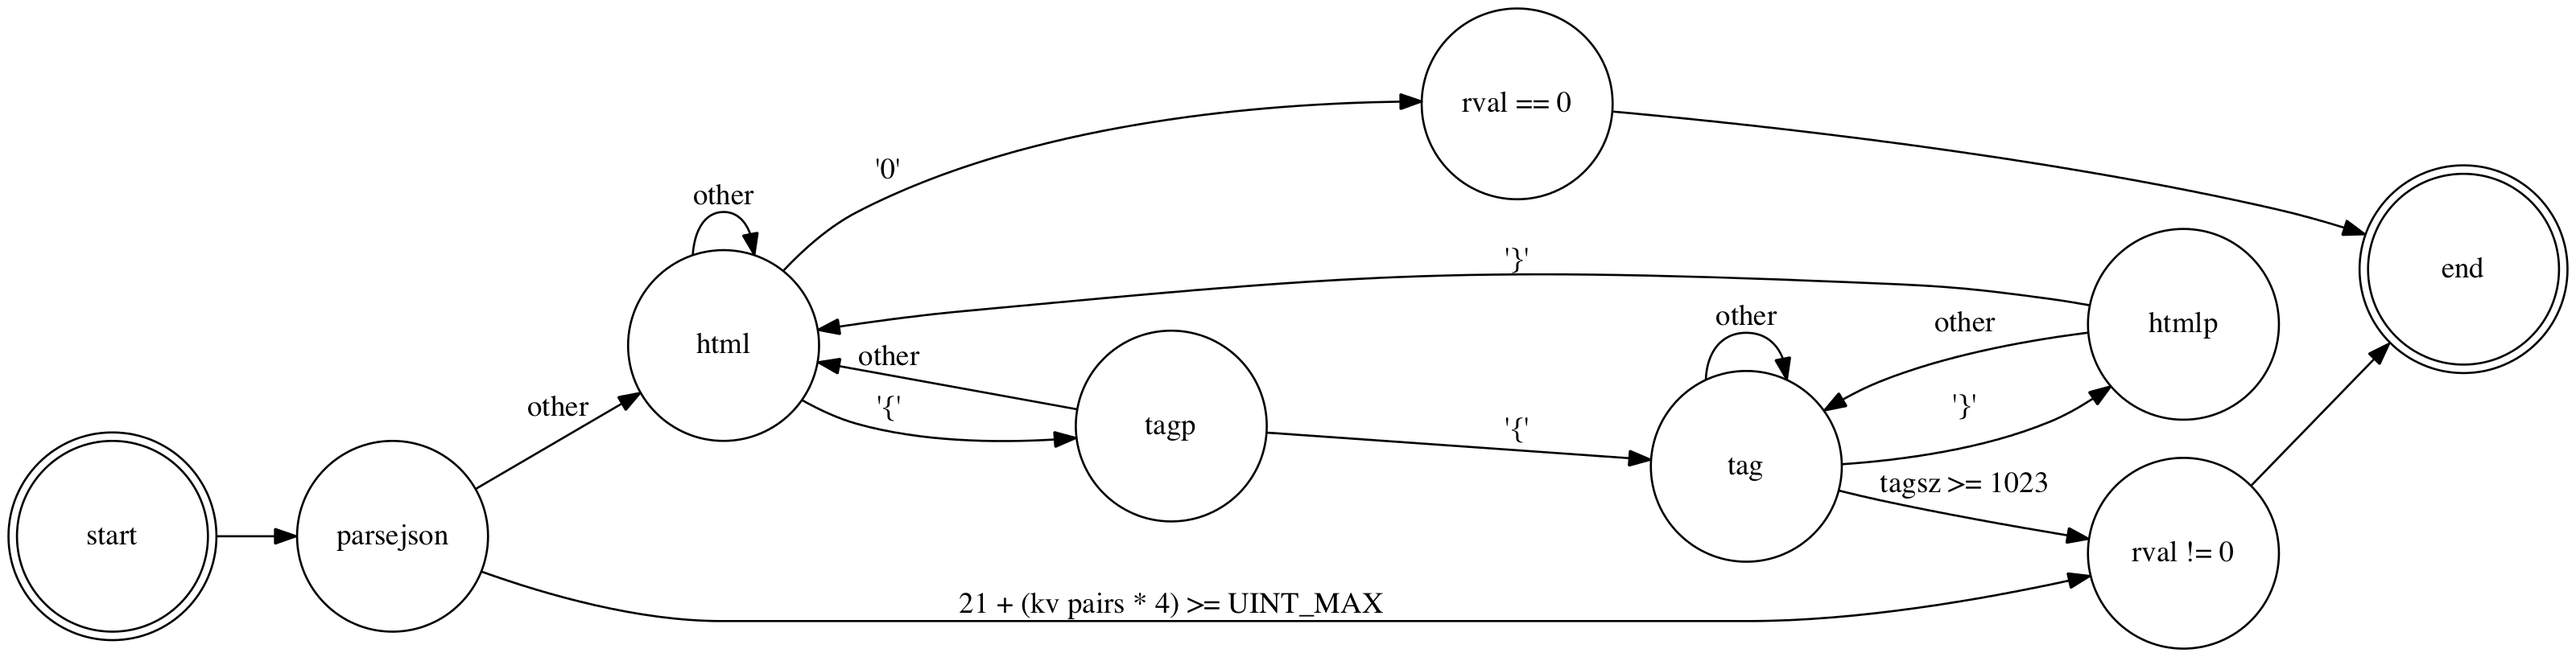
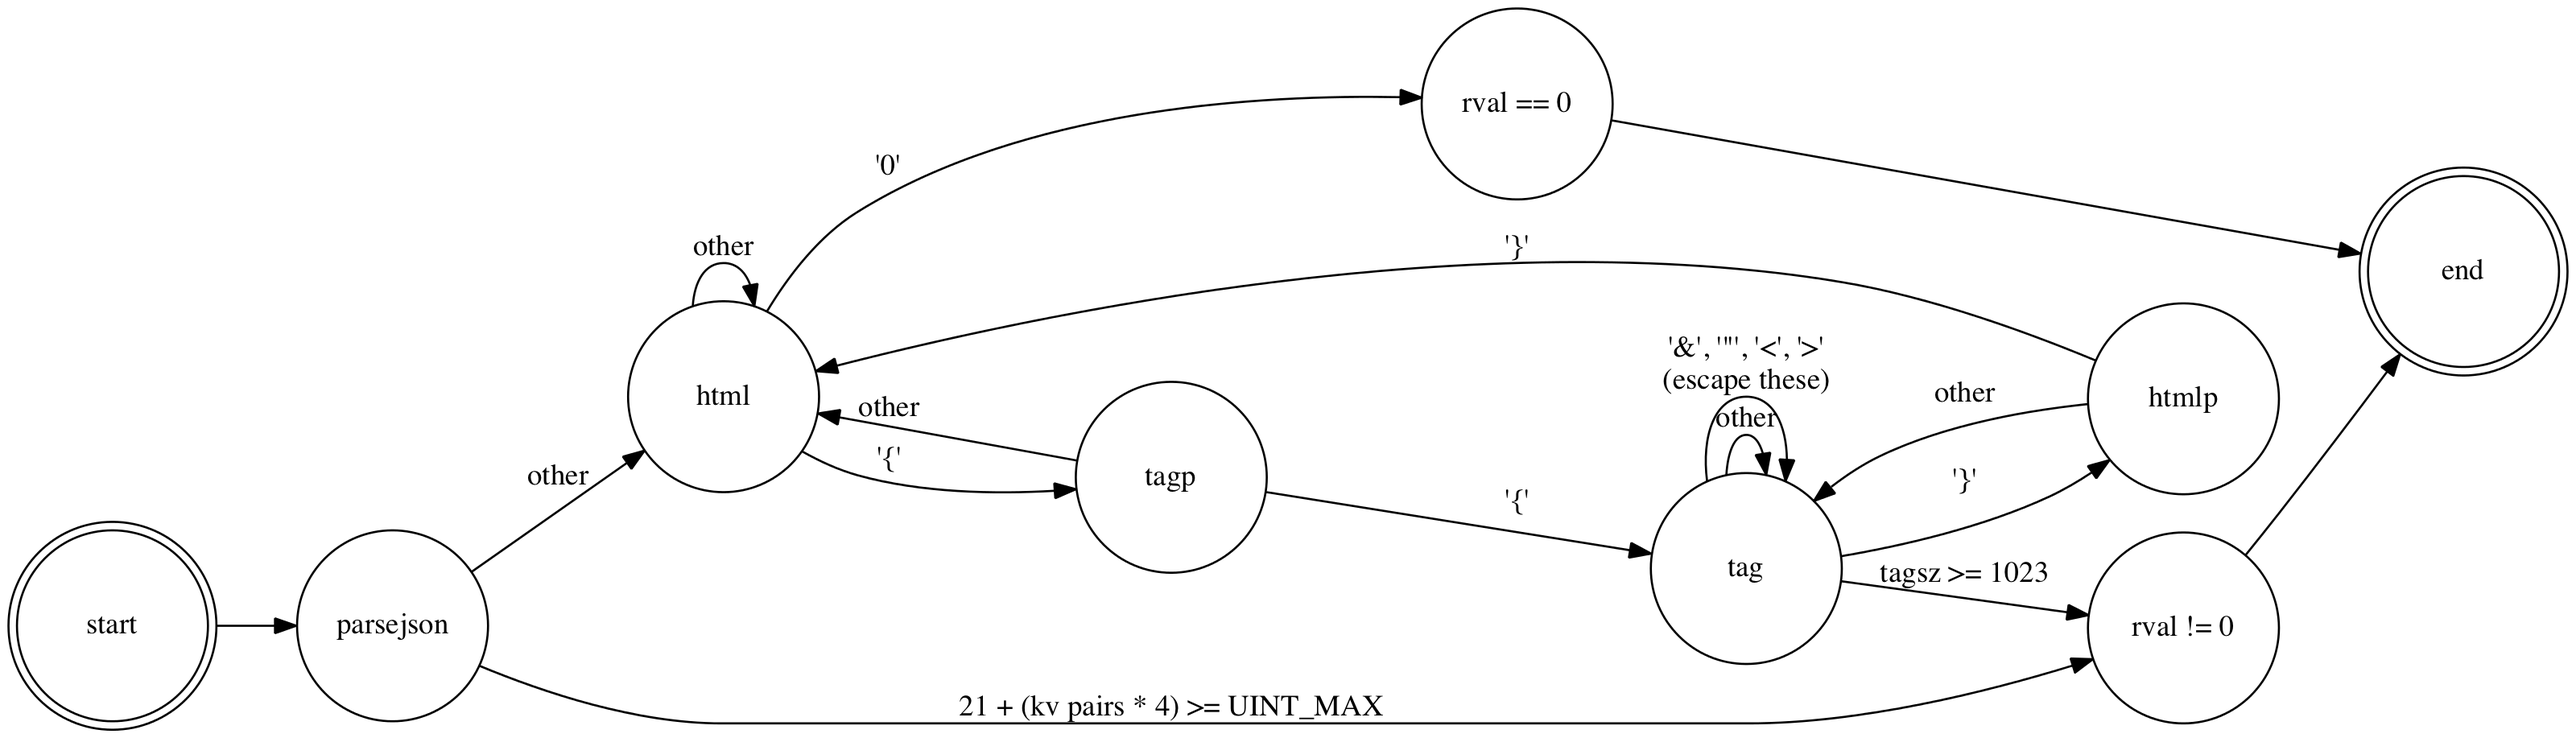
First three interpolation tests pass.

diff --git a/cmustache.c b/cmustache.c
@@ -8,6 +8,7 @@
 
 #include "js0n.h"
 #include "j0g.h"
+#include "htmlescape.h"
 
 #include "cmustache.h"
 
@@ -29,6 +30,17 @@
                                 __LINE__, __func__, __VA_ARGS__); } while (0)
 
 
+// Return the number of times the character c appears in the string s.
+unsigned long
+count(const char *s, char c)
+{
+	unsigned long		n = 0;
+
+	for (; *s; s++, n += (*s == c));
+
+	return n;
+}
+
 // Compute the size of an array
 // that is large enough to hold one offset and one length value
 // for each key and each value in the JSON.
@@ -37,9 +49,8 @@
 int
 size_index(const char *json, unsigned short **indexp, unsigned int *iszp)
 {
-	const char	*p;
 	int		rval = 0;
-	char		c = ',';
+	long		n = 0;
 
 		/*
 		 * (one key + one value) x (one offset + one length) = 4
@@ -60,12 +71,12 @@ size_index(const char *json, unsigned short **indexp, unsigned int *iszp)
 		 * on the number of key/value pairs - 1.
 		 */
 
-	*iszp = 0;
-	for(p = json; *p && !rval; p++) {
-		if (*iszp >= UINT_MAX)
-			rval = EX_TOO_MANY_KEYVAL_PAIRS;
-		*iszp += (*p == c);
-	}
+
+	n = count(json, ',');
+	if (n >= UINT_MAX)
+		rval = EX_TOO_MANY_KEYVAL_PAIRS;
+
+	*iszp = (unsigned int) n;
 
 		/*
 		 * The array holds short ints, but the array index
@@ -144,22 +155,28 @@ get(char *json, unsigned short *index, const char *key, char **val)
 
 // Look up value in JSON for the given key, and insert it into the result.
 int
-insert_tag(char *key, char **qhtml, char *json, unsigned short *index)
+insert_value(char *key, char **qhtml, char *json, unsigned short *index)
 {
 	int 		rval = 0;
-	char		*val;
+	char		*val = 0;
+	char		*escaped = 0;
 
 	rval = get(json, index, key, &val);
 
-	debug_printf("*qhtml = \"%s\"\n", val);
+	if (!rval)
+
+		rval = htmlescape(val, &escaped);
 
 	if (!rval) {
 
-		strcpy(*qhtml, val);
+printf("escaped = '%s'\n", escaped);
+
+		strcpy(*qhtml, escaped);
 
 		*qhtml += strlen(*qhtml);
-
 	}
+
+	free(escaped);
 
 	return rval;
 }
@@ -169,7 +186,6 @@ int
 render(const char *template, char *json, char **html)
 {
 	char		tag[MAX_TAGSZ] = {0};
-	char		*dbgfmt = "\t\t--> %s (%s)";
 	const char	*cur= 0;
 	char		prev;
 	char		*qhtml = 0;
@@ -200,8 +216,8 @@ render(const char *template, char *json, char **html)
 
 	static void *gotag[] =
 	{
-		[0 ... 124]		= &&l_tag,
-		[ '}' ]			= &&l_htmlp,
+		[0 ... 124 ]	= &&l_tag,
+		[ '}' ]			= &&l_htmlp,	// 125
 		[126 ... 255]	= &&l_tag
 	};
 
@@ -266,7 +282,6 @@ render(const char *template, char *json, char **html)
 		goto l_loop;
 
 
-
 	l_tag:
 		if (qtag - tag >= MAX_TAGSZ - 1)
 			rval = EX_TAG_TOO_LONG;
@@ -309,9 +324,9 @@ render(const char *template, char *json, char **html)
 	l_yes_html:
 		go = gohtml;
 		debug_printf("\t\t--> %s (%s)\n", "gohtml", "l_yes_html");
-		debug_printf("before insert, html = \"%s\"\n", html);
-		insert_tag(tag, &qhtml, json, index);
-		debug_printf("after insert, html = \"%s\"\n", html);
+		debug_printf("before insert, html = \"%s\"\n", *html);
+		rval = insert_value(tag, &qhtml, json, index);
+		debug_printf("after insert, html = \"%s\"\n", *html);
 		memset(tag, 0, MAX_TAGSZ);
 		goto l_loop;
 

diff --git a/cmustache.h b/cmustache.h
@@ -1,6 +1,7 @@
 #define	EX_TAG_TOO_LONG				4201
 #define	EX_TOO_MANY_KEYVAL_PAIRS		4202
 #define	EX_JSON_PARSE_ERROR			4203
+#define	EX_LOGIC_ERROR				4204
 
 int	render(const char* template, char *json, char **resultp);
 
@@ -9,3 +10,5 @@ int	index_json(const char *json, unsigned short **indexp);
 int	size_index(const char *json, unsigned short **indexp, unsigned int *iszp);
 
 int	get(char *json, unsigned short *index, const char *key, char **val);
+
+int	escape(const char *in, char **out);

diff --git a/regress/test.c b/regress/test.c
@@ -208,7 +208,7 @@ printf("\n\n------------ TESTS\n");
 
 	vec_foreach(&tests, test, i) {
 
-		if (i < 2) {
+		if (i < 3) {
 
 			rval = render( test->template, test->json, &result );
 
